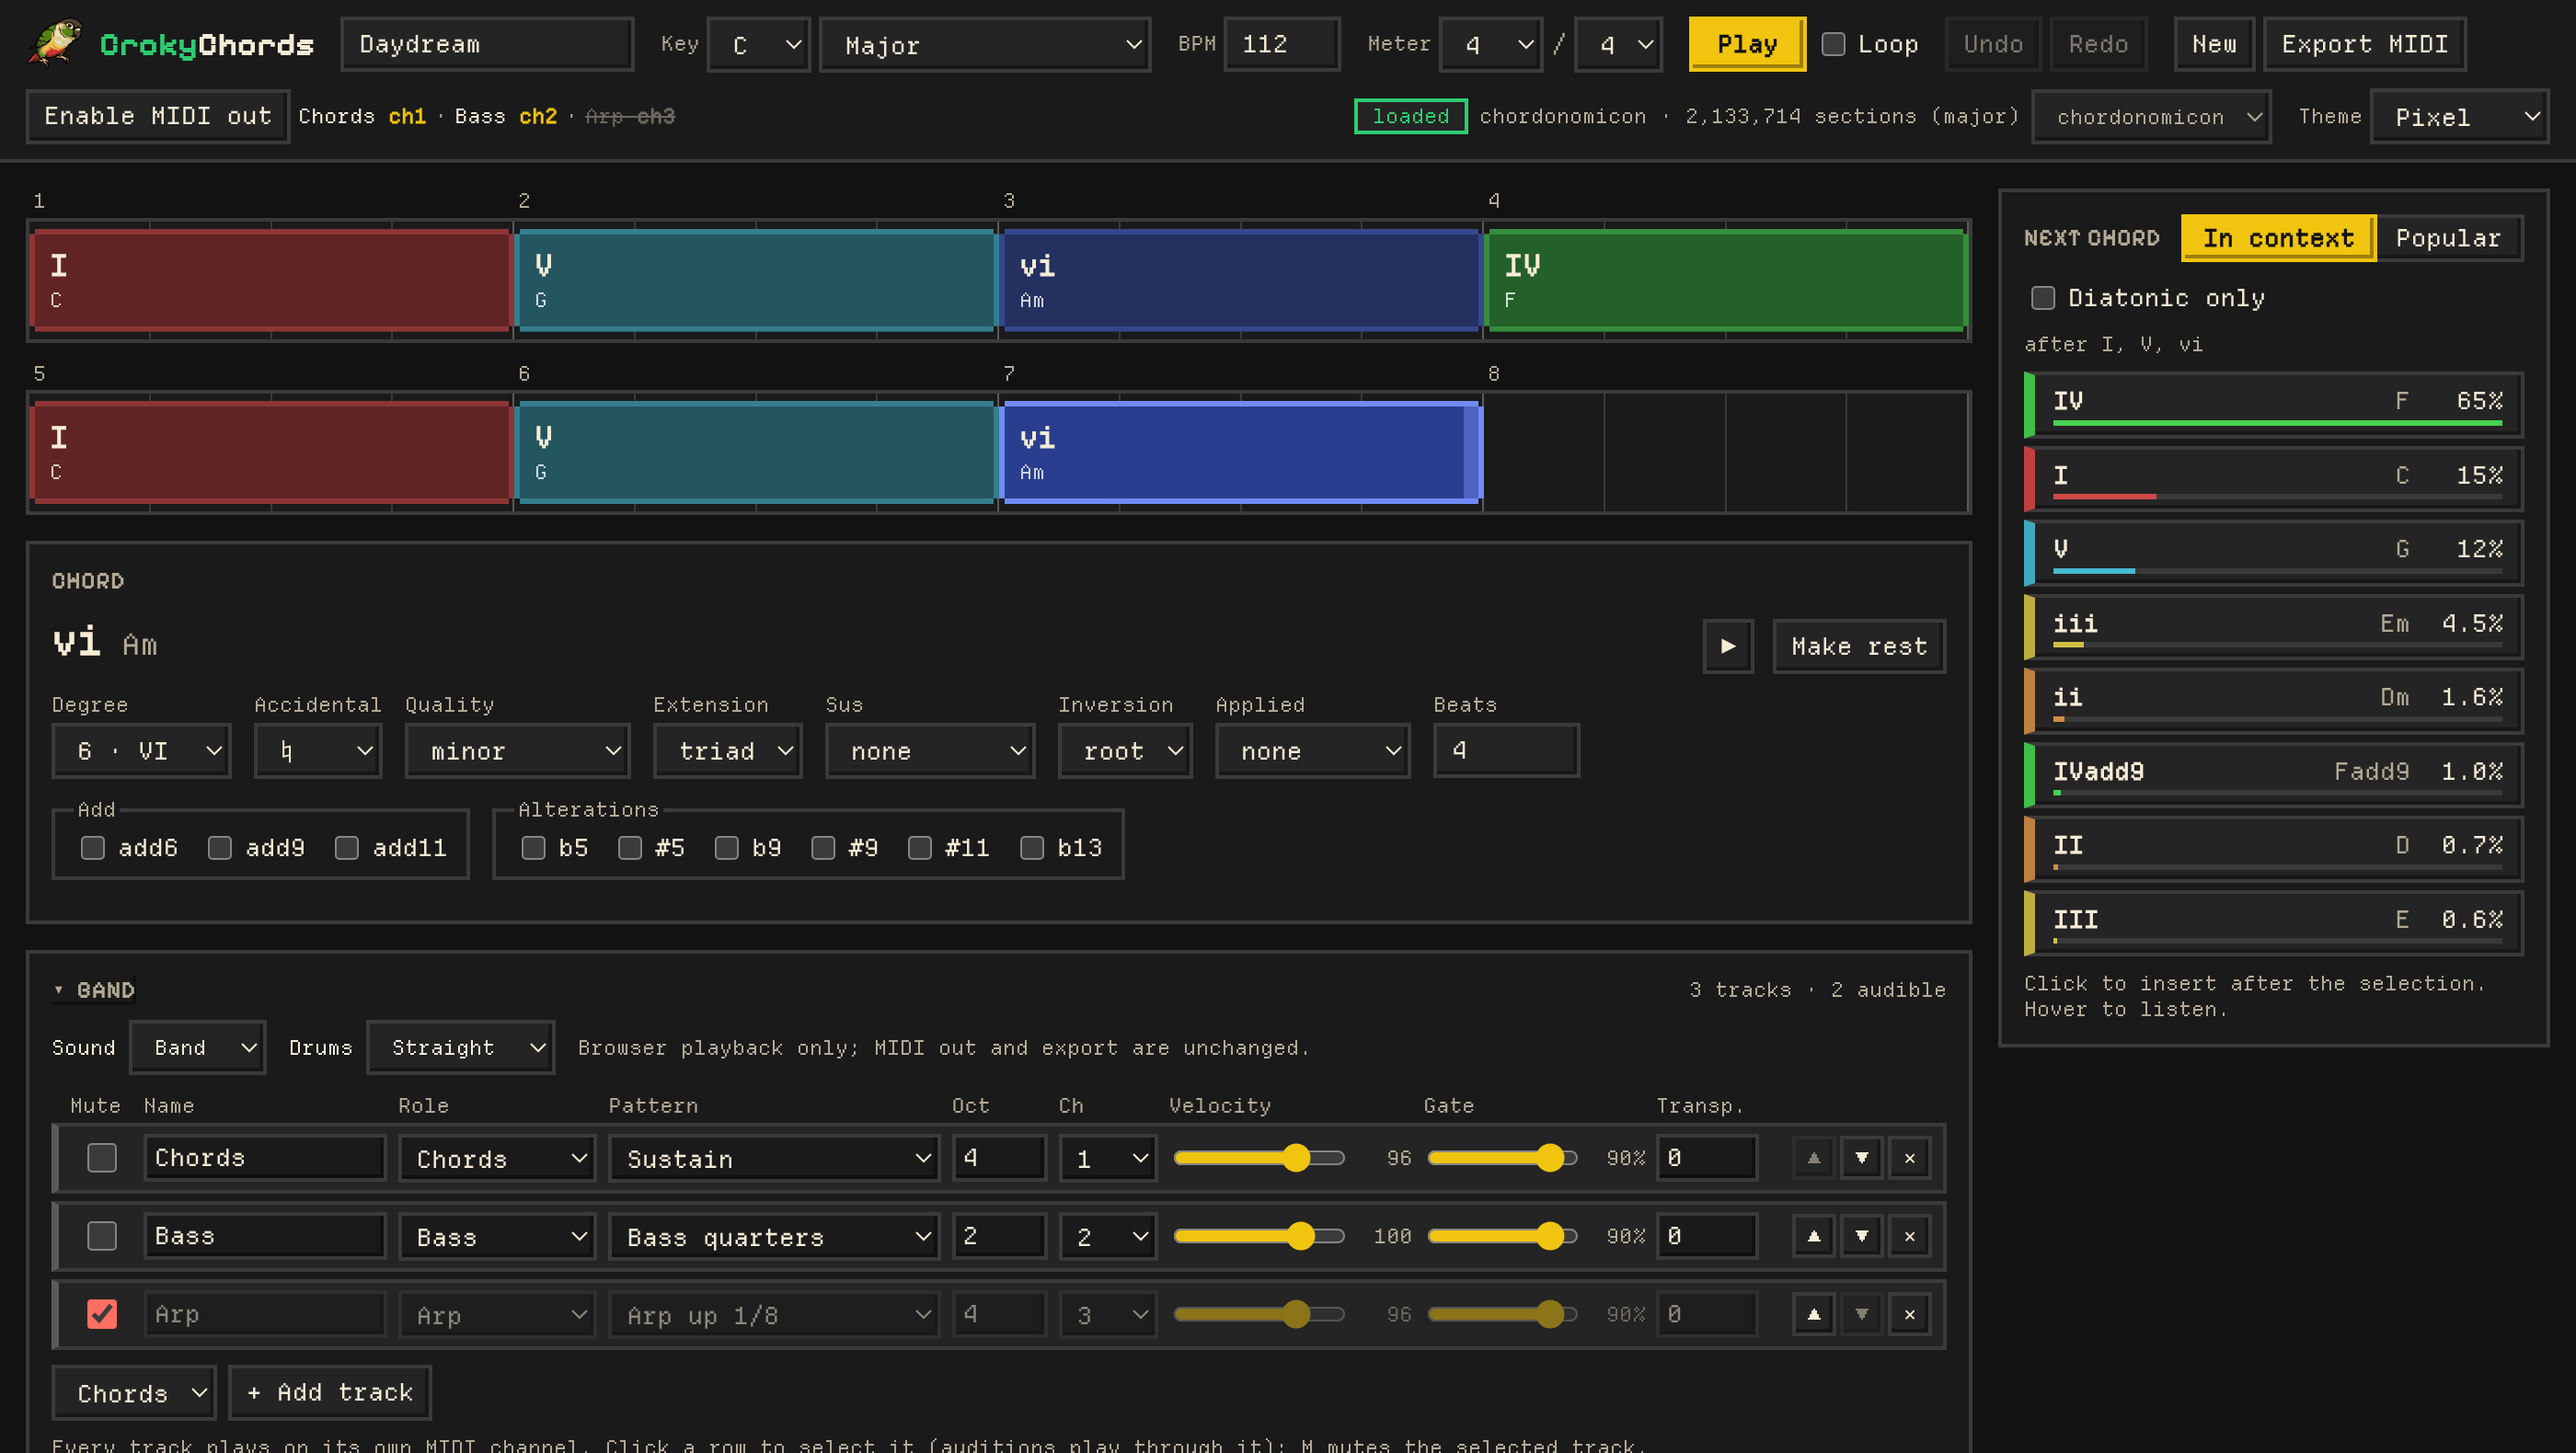
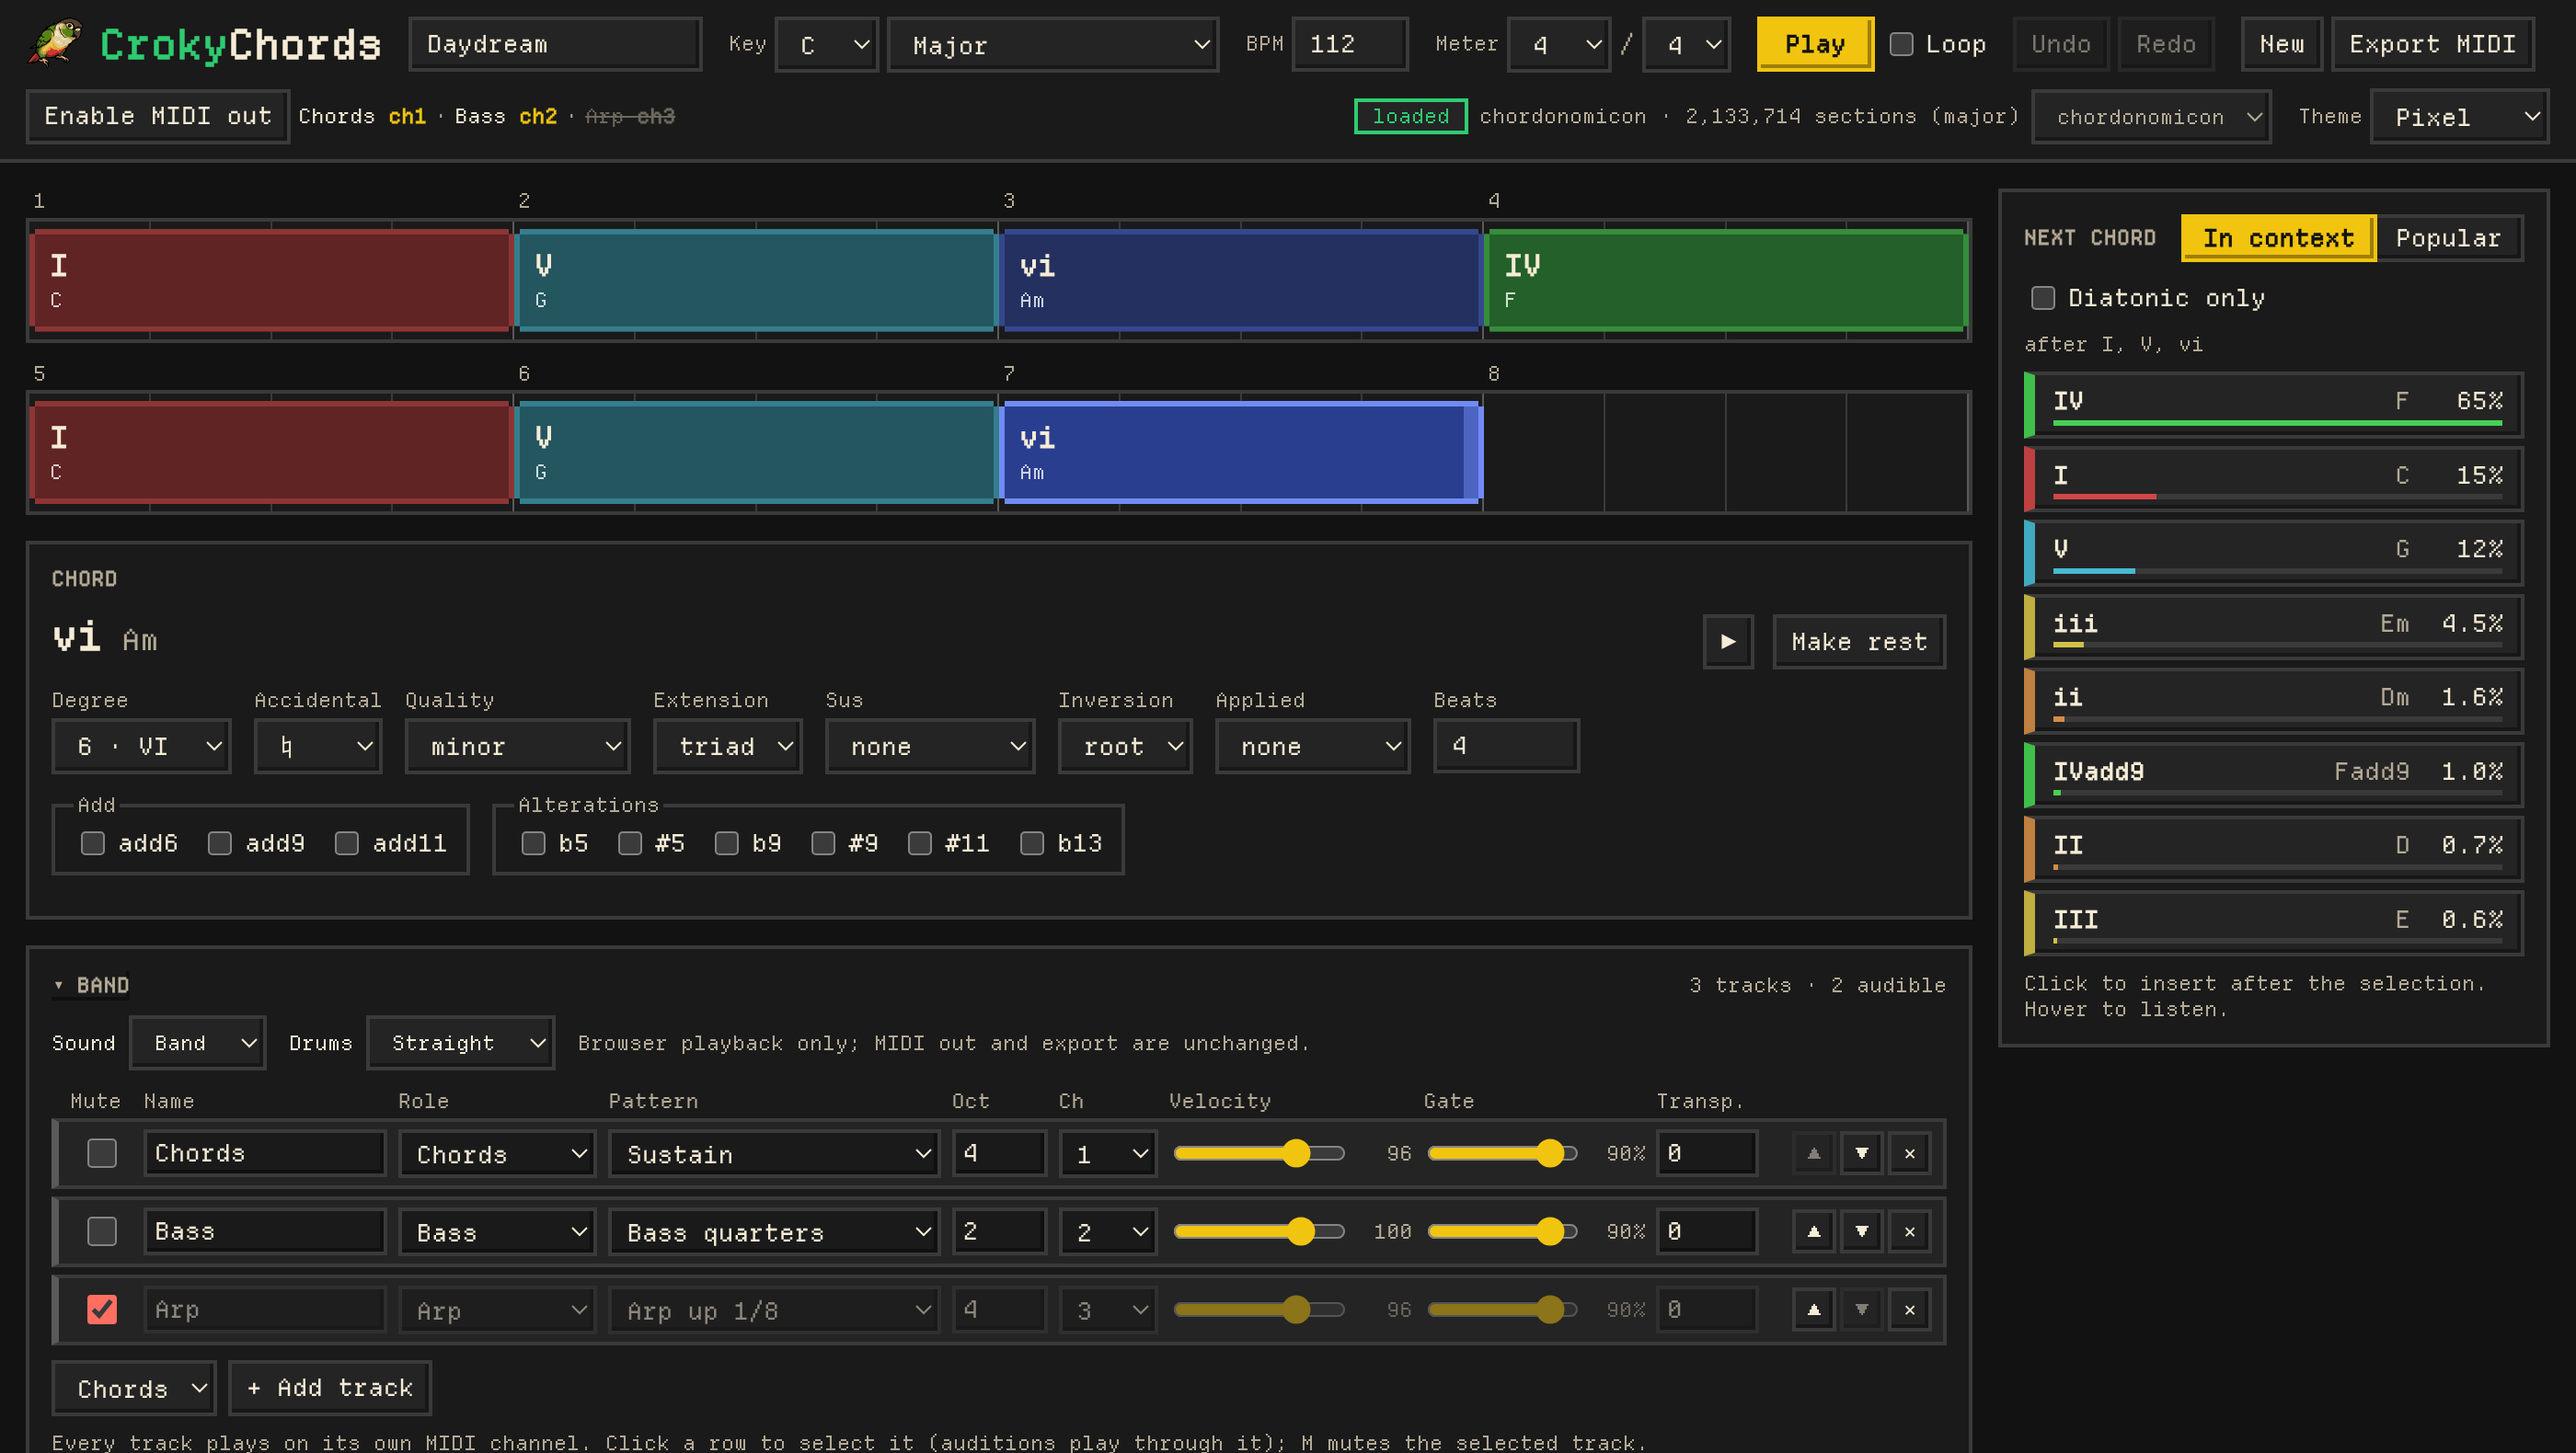
fix(web): Pixel theme uses Departure Mono for the wordmark and headings
Pixelify Sans read C as O at UI sizes ("OrokyOhords", "OHORD"); it is
dropped with its font files. Headings move to 11 px so Next chord stays
on one line.

diff --git a/apps/web/src/themes/pixel.ts b/apps/web/src/themes/pixel.ts
@@ -52,11 +52,11 @@ export const pixelTheme: Theme = {
     '--suggestion-hover': '30% 20%',
     '--suggestion-bar': '60% 55%',
     '--font-ui': "'Departure Mono', ui-monospace, monospace",
-    '--font-display': "'Pixelify Sans', 'Departure Mono', monospace",
+    '--font-display': "'Departure Mono', ui-monospace, monospace",
     '--font-size': '13px',
     '--font-size-xs': '11px',
     '--font-size-sm': '11px',
-    '--font-size-h': '13px',
+    '--font-size-h': '11px',
     '--font-size-lg': '16px',
     '--font-size-xl': '22px',
     '--line-height': '1.25',
@@ -64,7 +64,7 @@ export const pixelTheme: Theme = {
     '--weight-semibold': '600',
     '--heading-tracking': '0.02em',
     '--brand-tracking': '0',
-    '--brand-size': '18px',
+    '--brand-size': '22px',
     '--radius': '0',
     '--radius-panel': '0',
     '--radius-pill': '0',
@@ -102,12 +102,6 @@ export const pixelTheme: Theme = {
       file: 'DepartureMono-Regular.woff2',
       weight: '400',
       licence: 'DepartureMono-OFL.txt',
-    },
-    {
-      family: 'Pixelify Sans',
-      file: 'PixelifySans.woff2',
-      weight: '400 700',
-      licence: 'PixelifySans-OFL.txt',
     },
   ],
 };

diff --git a/docs/specs/themes-v1.md b/docs/specs/themes-v1.md
@@ -68,14 +68,13 @@ result as one `<style id="themes">` before the app mounts.
 
 Fonts are bundled, never loaded from a CDN: `apps/web/public/fonts/<file>` next to its licence
 file. A face is declared in the theme's `fonts` and only downloaded when the theme is active.
-Pixel uses two fonts, both under the SIL Open Font License 1.1:
-
-- **Departure Mono** (`--font-ui`, all UI text): a pixel monospace drawn on an 11 px grid, so it is
-  crisp at 11 and 22 px. Its digits and letters are unambiguous (`5` vs `S`, `2` vs `Z`), which
-  matters for chord tokens such as `b5` and `#5`. Bold is synthesised.
-- **Pixelify Sans** (`--font-display`: the wordmark and the panel headings): a chunky pixel sans
-  close to the banner's hand-drawn wordmark; subset to Latin, WOFF2, weights 400–700. Not used
-  for body text because its `5` reads as `S`.
+Pixel uses one font, **Departure Mono** (SIL Open Font License 1.1), for both `--font-ui` and
+`--font-display` (wordmark and panel headings): a pixel monospace drawn on an 11 px grid, so it is
+crisp at 11 and 22 px. Its letters and digits are unambiguous (`C` vs `O`, `5` vs `S`), which
+matters for the wordmark and for chord tokens such as `b5` and `#5`. Bold is synthesised. A pixel
+sans with a closer match to the banner wordmark (Pixelify Sans) was tried and dropped: at UI sizes
+its `C` reads as `O` and its `5` as `S`. `--font-display` stays a separate token so a later theme
+can use a display face.
 
 Glyphs a font lacks (▾ ▶ ▲ ▼ ♮) fall back to the next family in the stack.
 
@@ -102,7 +101,7 @@ Glyphs a font lacks (▾ ▶ ▲ ▼ ♮) fall back to the next family in the st
 | Grid           | bar and beat lines solid 1 px (no dashes), so the grid reads as pixels                                                      |
 | Effects        | no glow on the playhead or selection, hard offset shadow on the audio overlay, transitions in `steps()`                     |
 | Mark           | `croky-pixel.svg` (pixel-perfect vector of the 64 px original) at 32 px, square, `image-rendering: pixelated`                 |
-| Type           | Departure Mono 13 px for the UI (11 px for small labels), Pixelify Sans for the wordmark (18 px) and headings              |
+| Type           | Departure Mono: 13 px for the UI, 11 px for small labels and panel headings, 22 px for the wordmark                         |
 
 The mark swaps image through `content: var(--mark-image)` on the existing `<img>` (Default:
 `normal`, the `src` stays), so the DOM is the same in both themes.

diff --git a/apps/web/README.md b/apps/web/README.md
@@ -31,8 +31,7 @@ The **Theme** select at the end of the toolbar switches between **Default** and 
 README banner as a UI: pixel fonts, square corners, chunky borders, the brand palette). The
 choice is stored in `localStorage` as `crokychords.theme`. Themes are design tokens (CSS custom
 properties) in `src/themes/`, one file per theme; `styles.css` uses only the tokens. Pixel's
-fonts (Departure Mono, Pixelify Sans; SIL OFL 1.1) are bundled in `public/fonts/` with their
-licences. See [`docs/specs/themes-v1.md`](../../docs/specs/themes-v1.md), also for adding a theme.
+font (Departure Mono, SIL OFL 1.1) is bundled in `public/fonts/` with its licence. See [`docs/specs/themes-v1.md`](../../docs/specs/themes-v1.md), also for adding a theme.
 
 ## Keyboard shortcuts
 
